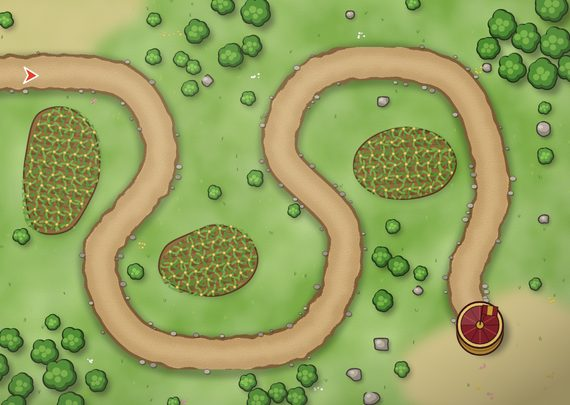
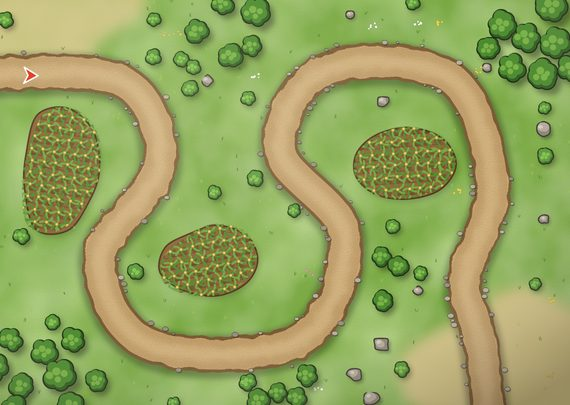
Karten: Wege führen aus der Karte hinaus statt zum Kornspeicher, Oase endet im See, Maisburg unverändert
Claude-Session: https://claude.ai/code/session_01H2UiKssafjRzK7unKsx8yK

diff --git a/spiel.js b/spiel.js
@@ -875,7 +875,7 @@
     P.orden += lohn; if (sieg) P.sterne[K.id] = Math.max(alteSterne, sterne); sichern();
     S.ende = true; S.pause = true;
     const naechste = A.karten.indexOf(K) + 1;
-    overlay(`<h1>${sieg ? K.land + ' ist sicher!' : aufgegeben ? 'Karte verlassen' : (K.palast ? 'Der Regierungspalast ist gefallen' : 'Der Kornspeicher ist gefallen')}</h1>
+    overlay(`<h1>${sieg ? K.land + ' ist sicher!' : aufgegeben ? 'Karte verlassen' : (K.ende === 'palast' ? 'Der Regierungspalast ist gefallen' : K.ende === 'see' ? 'Die Gegner haben den Salzsee erreicht' : 'Die Gegner sind durchgebrochen')}</h1>
       <p style="font-size:17px">${sieg ? `Alle ${K.wellen} Wellen abgewehrt mit ${Math.ceil(S.leben)} Leben übrig. <span style="color:#E8C766;letter-spacing:.1em">${'★'.repeat(sterne)}${'☆'.repeat(3 - sterne)}</span>` : `${geschafft} von ${K.wellen} Wellen geschafft.`}</p>
       <p>${sieg ? `Verdienstorden für den Techbaum: <b style="color:#E8C766">+${lohn}</b> (jetzt ${fmt(P.orden)}). Ausgeben kannst du sie auf dem Weltbildschirm.` : 'Verdienstorden gibt es nur für besiegte Karten.'}${sieg && naechste < A.karten.length && erstSieg ? ` Neue Karte freigeschaltet: <b>${A.karten[naechste].land}</b>.` : ''}</p>
       <div style="display:flex;gap:12px;margin-top:16px"><button class="gold" type="button" id="zurKampagne" style="width:260px">Zur Kampagne</button><button class="rand" type="button" id="nochmal" style="width:220px">Nochmal spielen</button>${sieg ? '<button class="rand" type="button" id="freeplay" style="width:260px">∞ Freeplay weiterspielen</button>' : ''}</div>

diff --git a/README.md b/README.md
@@ -17,6 +17,8 @@ Grafiken und Generatoren liegen im Repo `nikesieg4/Maiskolbistan-Info` unter `se
 
 ## Kampagne
 
+Die Wege führen aus der Karte hinaus (kein Kornspeicher mehr); Ostkolbistan endet im Salzsee, Maisburg am Regierungspalast. Wer das Wegende erreicht, kostet Leben.
+
 | Nr. | Bundesland | Karte | Wellen | Leben der Gegner | Verdienstorden (erster Sieg) |
 | --- | --- | --- | --- | --- | --- |
 | 1 | Westkolbistan | Grenzfelder | 20 | ×1,00 | 3 |
